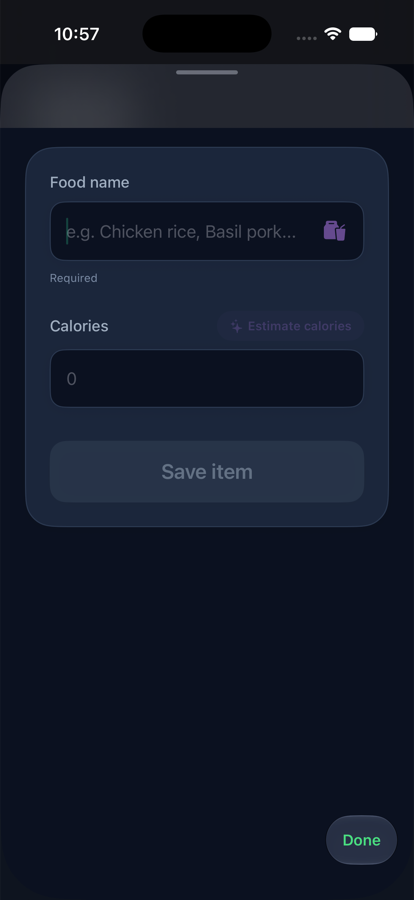
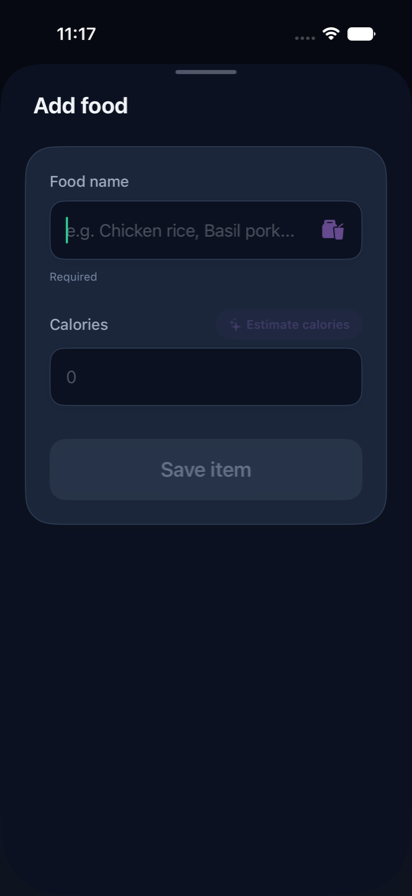
Retake the screenshots on iPhone 17 Pro

Changed region(s): [[0.0, 0.0312, 1.0, 0.1562], [0.7864, 0.9062, 0.9612, 0.9688], [0.1456, 0.25, 0.1748, 0.2812]]

diff --git a/README.md b/README.md
@@ -16,7 +16,7 @@
 
 ## หน้าตาแอป
 
-ภาพทั้งหมดถ่ายจากแอปที่รันจริง ไม่ได้ทำขึ้นใหม่
+ภาพทั้งหมดถ่ายจากแอปที่รันจริงบน iPhone 17 Pro (iOS 27) ธีมมืด ไม่ได้ทำขึ้นใหม่
 
 ### หน้าหลัก
 
